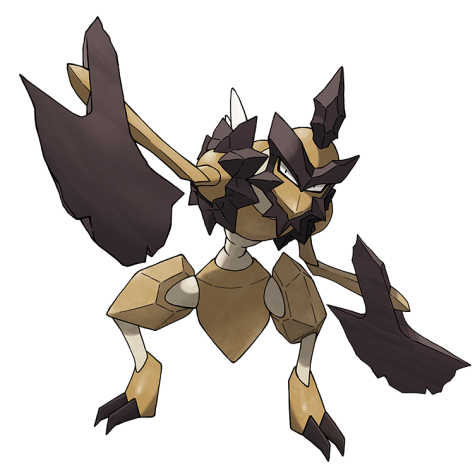
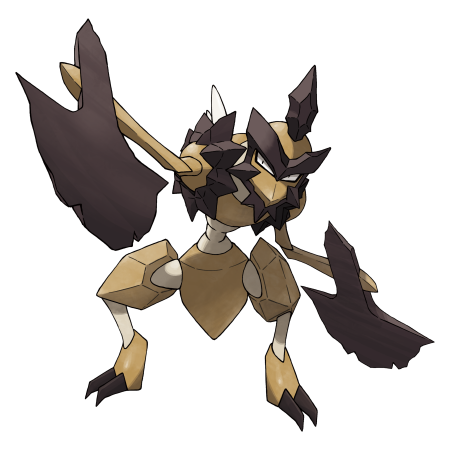
Updated art, added pokemon preference quiz

Changed region(s): [[0.0311, 0.0311, 0.9956, 0.9644], [0.0933, 0.3422, 0.1867, 0.4978], [0.1867, 0.4978, 0.2178, 0.5289]]

diff --git a/best_pokemon.py b/best_pokemon.py
@@ -1,0 +1,113 @@
+from tkinter import *
+from tkinter import ttk
+from PIL import Image, ImageTk
+import time
+import json
+import random
+import os
+# import matplotlib as mpl
+# import matplotlib.pyplot as plt
+
+pokemon_list = open("poke_list.json")
+pokemon_list = json.load(pokemon_list)
+pokemon_list = pokemon_list["data"]
+
+print("Pokemon Generation numbers:\nGen 1 [1,151]\nGen 2 [152,251]\nGen 3 [252,386]\nGen 4 [387,493]\nGen 5 [494,649]\nGen 6 [650,721]\nGen 7 [722,809]\nGen 8 [810,905]")
+passed = False
+while not passed:
+    try:
+        start = int(input("Input starting dex number: "))
+        end = int(input("Input ending dex number: "))
+        passed = True
+        if start > end:
+            print("starting number cannot be greater than ending number")
+            passed = False
+        if start < 1:
+            print("starting number must be at least 1")
+            passed = False
+        if end > 905:
+            print("ending number must be at most 905")
+            passed = False
+    except ValueError:
+        print("Input must be a number")
+        pass
+
+
+if "prefs-{:03d}-{:03d}.json".format(start, end) not in os.listdir():
+    poke_included = {}
+    for i in range(start, end + 1):
+        poke_included["{:03d}".format(i)] = 0
+    prefs = open("prefs-{:03d}-{:03d}.json".format(start, end), "w")
+    json.dump({"included": poke_included, "matchups": []}, prefs)
+    prefs.close()
+prefs = open("prefs-{:03d}-{:03d}.json".format(start, end))
+prefs = json.load(prefs)
+
+pokemon_files = os.listdir("art/")
+pokemon_files.sort()
+pokemon_files = pokemon_files[start-1:end] # cull requested start and end dex numbers
+random.shuffle(pokemon_files) # shuffle pokemon
+
+
+def display_image():
+    global img_l, img_r,left_pokemon, right_pokemon
+
+    # pokemon that are significantly behind in matchups will get prioritized
+    if (max(prefs["included"].values()) - min(prefs["included"].values())) > 2:
+        # print("min max rescuing?")
+        min_count = min(prefs["included"].values())
+        temp_list = []
+        for item in prefs["included"]:
+            if prefs["included"][item] == min_count:
+                temp_list.append(item)
+        left_pokemon = random.choice(temp_list) + ".png"
+        right_pokemon = random.choice(temp_list) + ".png"
+        while right_pokemon == left_pokemon:
+            right_pokemon = random.choice(temp_list) + ".png"
+            if len(temp_list) == 1:
+                right_pokemon = random.choice(pokemon_files)
+    else:
+        left_pokemon = random.choice(pokemon_files)
+        right_pokemon = random.choice(pokemon_files)
+    while right_pokemon == left_pokemon:
+        right_pokemon = random.choice(pokemon_files)
+    img_l = ImageTk.PhotoImage(Image.open("art/" + left_pokemon))
+    img_r = ImageTk.PhotoImage(Image.open("art/"+ right_pokemon))
+    canvas.create_image(0, 0, anchor=NW, image=img_l)
+    canvas.create_image(475, 0, anchor=NW, image=img_r)
+
+def next_image(event): 
+    if event.x < 475:
+        prefs["matchups"].append([left_pokemon[:3], right_pokemon[:3], 0])
+    else:
+        prefs["matchups"].append([left_pokemon[:3], right_pokemon[:3], 1])
+    prefs["included"][left_pokemon[:3]] += 1
+    prefs["included"][right_pokemon[:3]] += 1
+    display_image()
+
+
+root = Tk()
+canvas = Canvas(root, width=950, height=475)
+canvas.pack(expand=YES)
+
+left_pokemon = random.choice(pokemon_files)
+right_pokemon = random.choice(pokemon_files)
+while right_pokemon == left_pokemon:
+    right_pokemon = random.choice(pokemon_files)
+
+img_l = ImageTk.PhotoImage(Image.open("art/" + left_pokemon))
+img_r = ImageTk.PhotoImage(Image.open("art/"+ right_pokemon))
+
+canvas.create_image(0, 0, anchor=NW, image=img_l)
+canvas.create_image(475, 0, anchor=NW, image=img_r)
+
+root.bind("<Button-1>", next_image)
+
+start_time = time.time()
+prev_time = time.time()
+root.mainloop()
+# print(stats)
+
+# save to json file
+fp = open ("prefs-{:03d}-{:03d}.json".format(start, end), "w")
+json.dump(prefs, fp)
